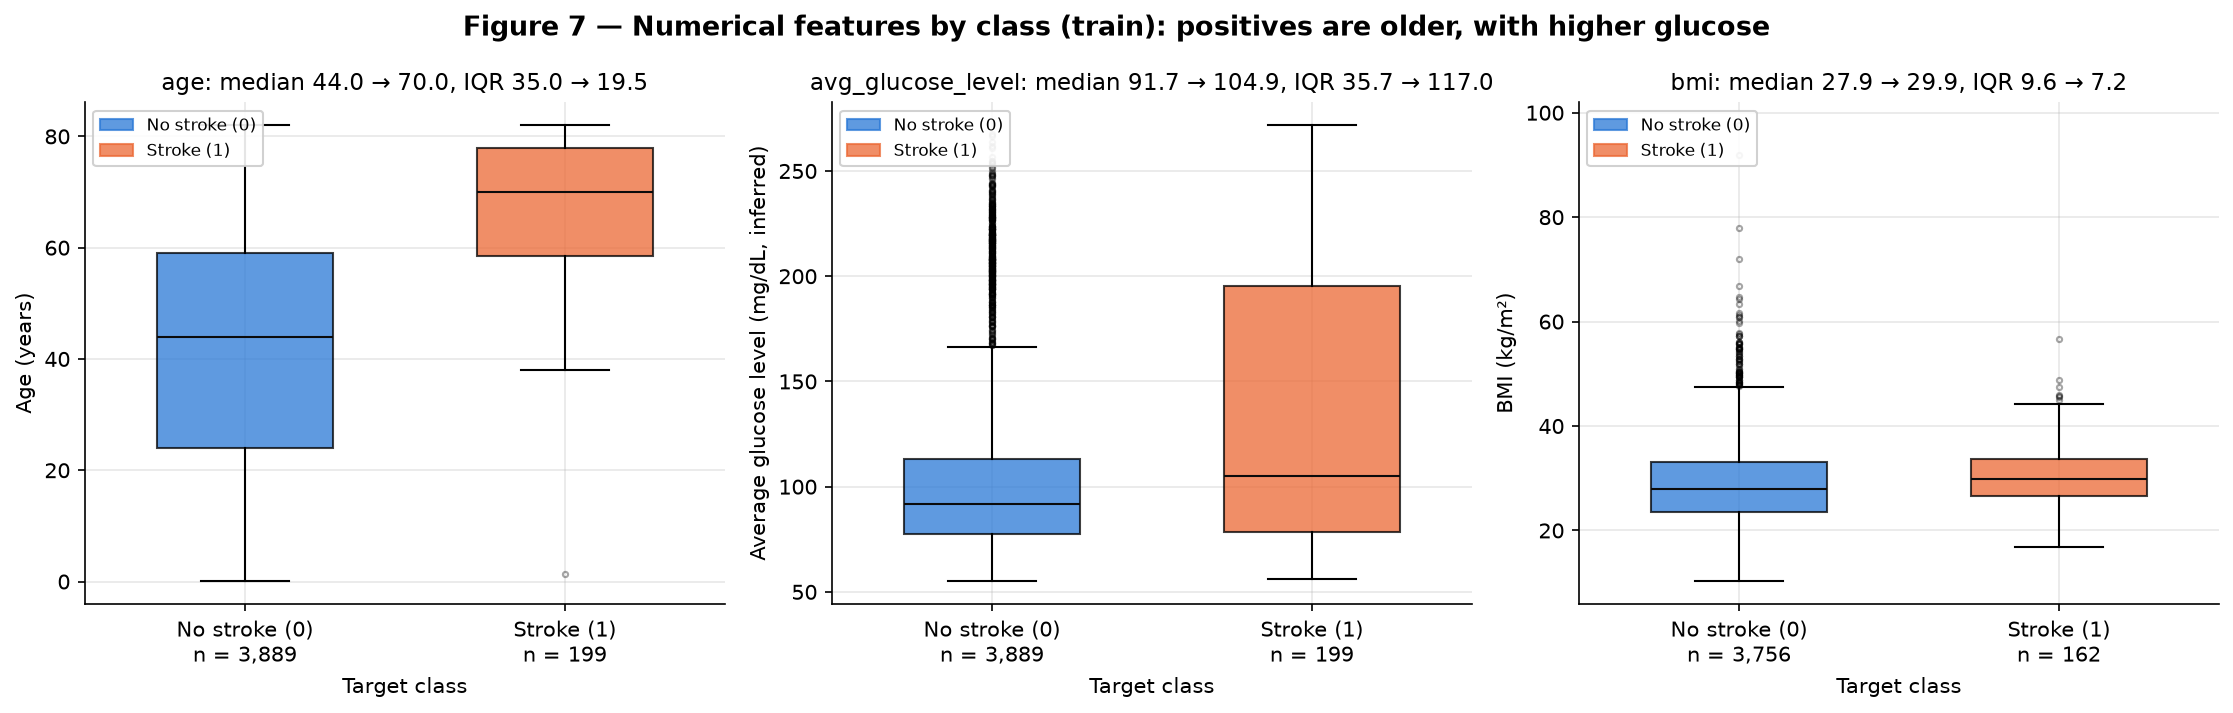
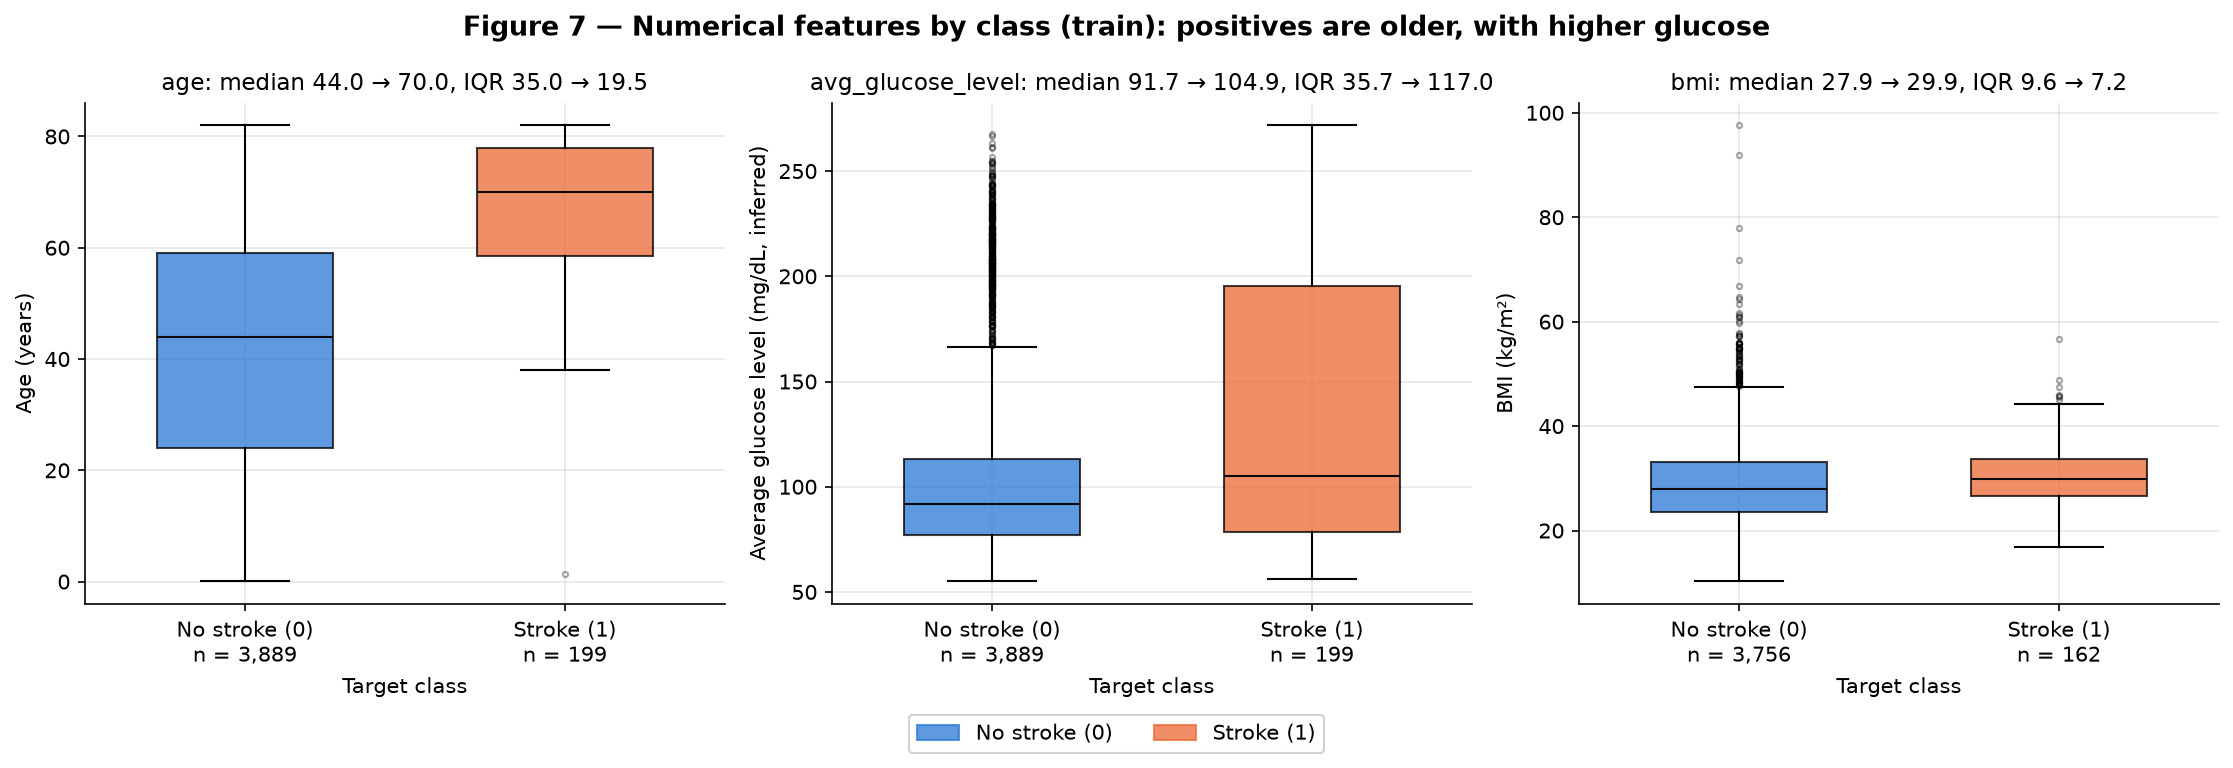
EDA report: drop unsupported age claim, dataset checksum, Figure 7 legend below the panels

diff --git a/docs/projects/eda/code/eda.py b/docs/projects/eda/code/eda.py
@@ -352,8 +352,8 @@ def stage3(train, res):
         iqr = [d.quantile(.75) - d.quantile(.25) for d in data]
         ax.set(title=f"{f}: median {data[0].median():.1f} → {data[1].median():.1f}, IQR {iqr[0]:.1f} → {iqr[1]:.1f}",
                xlabel="Target class", ylabel=UNITS[f])
-        ax.legend(handles=[Patch(color=CLASS_COLORS[k], alpha=0.75, label=CLASS_LABELS[k]) for k in (0, 1)],
-                  loc="upper left")
+    fig.legend(handles=[Patch(color=CLASS_COLORS[k], alpha=0.75, label=CLASS_LABELS[k]) for k in (0, 1)],
+               loc="lower center", ncol=2, bbox_to_anchor=(0.5, -0.06), fontsize=10)
     save_figure(fig, 7, "box_target", "Numerical features by class (train): positives are older, with higher glucose")
 
     # Figure 8 — confounding structure: age by work type and by smoking status, glucose by hypertension

diff --git a/docs/projects/eda/index.md b/docs/projects/eda/index.md
@@ -19,7 +19,7 @@ This report explores the dataset that the classification project will use until 
 python docs/projects/eda/code/main.py
 ```
 
-The run takes about a minute and a half. It writes Figures 1–13 to `figures/` and the tables (Markdown and CSV) and numbers (JSON) to `results/`. The CSV is committed at `data/stroke-prediction/`, so the script runs from a clean clone.
[1 lines of base64/hex data omitted]
 
 **Rule followed throughout.** The full file is used only for the stage-1 inventory: missing values, duplicates, consistency checks and the target distribution. The split happens right after it (1D). From then on, every statistic, figure and fitted parameter comes from the 4,088 training rows. The 1,022 test rows are only transformed by the finished pipeline, to report their shape and to prove that nothing was learned from them.
 
@@ -82,10 +82,7 @@ The run takes about a minute and a half. It writes Figures 1–13 to `figures/` 
 | smoking_status | 0 | 0.00 |
 | stroke | 0 | 0.00 |
 
-Two kinds of missing information do not show up in Table 2:
-
-- **`smoking_status = Unknown`** is a disguised missing value: 1,544 rows (30.22% of the file) carry it, and the publisher defines it as "information unavailable". It is not random: 682 of these rows are patients under 18, and in training 498 of the 554 `children` rows are `Unknown`. Children were simply not asked, which makes the category informative rather than noise (section 4A keeps it as its own category).
-- **Top-coded age?** No age exceeds 82, and 56 rows sit exactly at 82, against 60 at 81 and 70 at 80. This is consistent with ages above 82 having been recorded as 82; it cannot be confirmed from the file, and it does not change any decision here.
+**Disguised missing values.** Table 2 misses one: **`smoking_status = Unknown`**, carried by 1,544 rows (30.22% of the file) and defined by the publisher as "information unavailable". It is not random: 682 of these rows are patients under 18, and in training 498 of the 554 `children` rows are `Unknown`. Children were simply not asked, which makes the category informative rather than noise (section 4A keeps it as its own category).
 
 **Duplicates, impossible and inconsistent values.** Every check is quantified in Table 3.
 
@@ -148,7 +145,7 @@ The split is made **before any preprocessing decision**, with `train_test_split(
 - **Train: 4,088 rows** (3,889 negatives, 199 positives — 4.87%).
 - **Test: 1,022 rows** (972 negatives, 50 positives — 4.89%).
 - The two sets are disjoint and together cover all 5,110 rows. No row was removed before the split: the file has no duplicates to remove.
-- **Stratified**, because a random 20% of a 4.87% class could easily hold 40 or 60 positives instead of 50; stratification fixes the rate in both parts (Table 4).
+- **Stratified**, because with only 249 positives an unstratified random split would let the test rate drift by chance. Stratification fixes it at 4.87% in train and 4.89% in test (Table 4).
 - **Not temporal**, because the file has no date. **Not grouped**, because each `id` is unique and there is no other patient key.
 - With fewer than 10,000 rows, the course recommends cross-validation plus a held-out test set. The modeling deliverable will therefore select models with stratified, shuffled 5-fold cross-validation **inside these 4,088 training rows**, refitting the whole pipeline in every fold, and will look at the 1,022 test rows once, at the end.
 
@@ -170,7 +167,7 @@ The split is made **before any preprocessing decision**, with `train_test_split(
 
 The figure shows histograms, to read the shape and the modes, with boxplots below, to count the points beyond 1.5×IQR. The mean is drawn next to the median because their gap is the cheapest skewness diagnostic.
 
-- **`age`** — roughly uniform between 0 and 82 years, with a slight left skew (−0.16; mean 43.35 < median 45.00) and a flat shape (excess kurtosis −0.98). There are two spikes: infants (ages below 2) and the 78–82 band, where the possible top-coding at 82 sits. No point lies beyond the IQR fences.
+- **`age`** — roughly uniform between 0 and 82 years, with a slight left skew (−0.16; mean 43.35 < median 45.00) and a flat shape (excess kurtosis −0.98). There are two concentrations at the ends: infants (ages below 2) and patients aged 78–82, the maximum. No point lies beyond the IQR fences.
 - **`avg_glucose_level`** — strongly right-skewed (1.56; mean 106.32 > median 91.94) and, above all, **bimodal**. The main mode is near 85 mg/dL and a second mode near 205 mg/dL, separated by a valley near 175 mg/dL. 589 training rows (14.41%) lie above 150 mg/dL. The boxplot flags 503 points as "outliers", but they are not isolated errors: they are the second mode — a subpopulation, most likely diabetic patients, whose diagnosis is not a column of the file.
 - **`bmi`** — right-skewed (1.12; mean 28.92 > median 28.00) with a heavy right tail (excess kurtosis 3.84). 90 points lie beyond the upper fence of 47.35, and the maximum is 97.6.
 
@@ -358,8 +355,8 @@ The figure shows histograms, to read the shape and the modes, with boxplots belo
 The age bands separate the real signals from the age proxies:
 
 - **The clinical flags survive the control.** Among patients aged 60 or more, hypertension still raises the stroke rate from 11.62% to 17.87%, and heart disease from 11.94% to 18.39%. Both gaps are real but much smaller than the unadjusted 3.5–3.9×.
-- **The work and smoking effects disappear.** At 60+, Self-employed (12.40%) is no longer above Private (13.53%). Formerly smoked (14.47%) is only slightly above never smoked (12.86%).
-- **Marriage reverses.** At 60+, the never-married have the higher rate: 20.48% (n = 83) against 12.34% for the married. This is a Simpson's paradox: the median age is 54 for the married and 18 for the never-married, and that age gap alone produced the unadjusted 3.9×.
+- **The work and smoking effects almost disappear.** At 60+, Self-employed (12.40%) is no longer above Private (13.53%). Formerly smoked (14.47%) is only slightly above never smoked (12.86%).
+- **Marriage reverses.** At 60+, the never-married have the higher rate: 20.48% (n = 83) against 12.34% for the married. This is a Simpson's paradox: the median age is 54 for the married and 18 for the never-married, so the unadjusted 3.9× reflects the age gap, not marriage.
 
 *This implies that* the network must see age together with the categorical features. It also implies that none of the social categories can be presented as a risk factor.
 
@@ -502,7 +499,7 @@ The three projections all use the same matrix: the 4,088 training rows transform
 | UMAP n_neighbors 15 | 0.987 | 0.969 | 9.05 | 74.2 |
 | UMAP n_neighbors 50 | 0.981 | 0.971 | 10.50 | 68.2 |
 
-- **The islands are categorical profiles.** The training set holds 364 distinct combinations of the seven categorical features plus the BMI indicator. In the original 24-dimensional space, 75.5% of each point's 10 nearest neighbors share its exact profile. t-SNE keeps 76.7–78.2% and UMAP 68.2–76.9%, but PCA keeps only **4.5%**: it superimposes the profiles, because its two components are spent on the three continuous features. In Figure 13 (top), the `children` profiles form islands of their own in t-SNE and UMAP, while PCA only shades them along PC1.
+- **The islands are categorical profiles.** The training set holds 364 distinct combinations of the seven categorical features plus the BMI indicator. In the original 24-dimensional space, 75.5% of each point's 10 nearest neighbors share its exact profile. t-SNE (76.7–78.2%) and UMAP (68.2–76.9%) keep that level, but PCA keeps only **4.5%**: it superimposes the profiles, because its two components are spent on the three continuous features. In Figure 13 (top), the `children` profiles form islands of their own in t-SNE and UMAP, while PCA only shades them along PC1.
 - **The local structure is far better preserved.** At k = 5, trustworthiness is 0.996–0.997 for t-SNE and 0.981–0.994 for UMAP, against 0.817 for PCA. Comparing the two neighborhood sizes ("read the columns, not the rows"): t-SNE with perplexity 5 drops from 0.996 at k = 5 to 0.954 at k = 30, because it keeps only the closest neighbors, while perplexity 50 holds 0.978.
 - **The positives are not a cluster in any space.** Around each positive, 8.89% of its 10 nearest neighbors are positive in the original space: 1.8 times the base rate, but far from a pure group. The 2D maps stay in the same range (8.84–10.65%), and none forms a positive cluster. Figure 13 (bottom) shows why the enrichment exists at all: inside every island, the positives sit at the old-age end.
 
